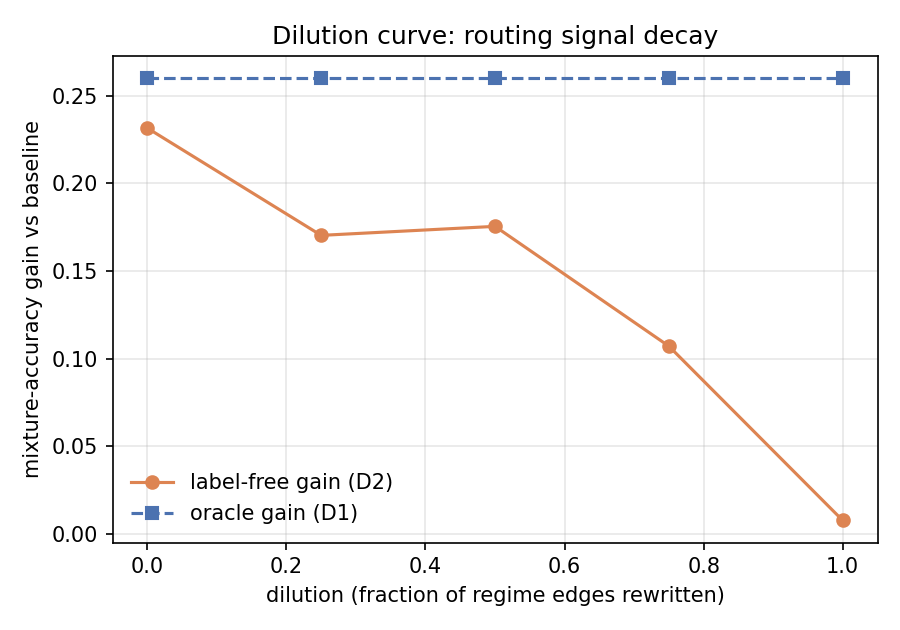
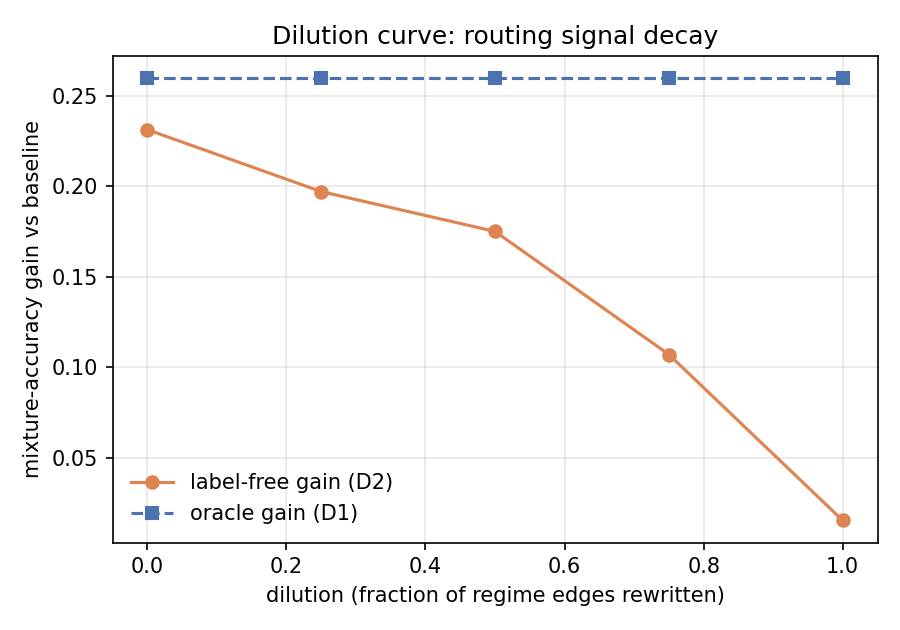
Regenerate dilution ladder on CPU and sync docs

diff --git a/docs/Insights.md b/docs/Insights.md
@@ -357,10 +357,10 @@ How the label-free gain behaves as we erase structure but keep labels:
 | Dilution λ | Oracle gain | Label-free gain |
 |-----------|-------------|-----------------|
 | 0.00 | 0.2599 | **0.2314** |
-| 0.25 | 0.2599 | 0.1703 |
-| 0.50 | 0.2599 | 0.1754 |
+| 0.25 | 0.2599 | 0.1972 |
+| 0.50 | 0.2599 | 0.1751 |
 | 0.75 | 0.2599 | 0.1071 |
-| 1.00 | 0.2599 | **0.0077** |
+| 1.00 | 0.2599 | **0.0153** |
 
 This is the **cleanest mechanistic result** in the repo:
 - Oracle gain is **completely flat** (0.260) — it reads labels, and dilution never
@@ -474,10 +474,9 @@ evidence below is mutually consistent and theory-aligned *for the control*:
 5. **The instrument is valid (D4 + δ-sweep).** Results are not an artifact of one magic
    threshold or a broken experimental setup.
 
-Two minor wiggles worth knowing (see §8): the ablation oracle δ-sweep plateau at 10k
+One minor wiggle worth knowing (see §8): the ablation oracle δ-sweep plateau at 10k
 nodes reads a bit differently from the earlier small-scale smoke run (peak at δ=0.3
-rather than a flat plateau), and the dilution 0.25 vs 0.50 points are nearly equal
-(0.170 vs 0.175) — both are within expected noise and do not disturb the trend.
+rather than a flat plateau) — within expected noise and does not disturb the trend.
 
 ---
 
@@ -494,8 +493,8 @@ rather than a flat plateau), and the dilution 0.25 vs 0.50 points are nearly equ
   express." The enormous effect sizes (`d_z > 100`) are the more informative number.
 - **Statistical resolution of dilution/ablation.** Those sweeps use fewer splits ×
   seeds (config default 4–6), so their effect sizes are noisier than the protocol's.
-- **2 of the dilution rungs are close** (0.25 vs 0.50) — the monotone trend is clear
-  across 0 → 1, but a tighter-rung run would smooth the middle points.
+- **Dilution spacing is uneven** (0.25 → 0.50 spans 0.197 → 0.175) — the monotone
+  trend is clear across 0 → 1, but a tighter-rung run would smooth the middle points.
 - **RouterGNN epoch-level variation across GPU/CPU** — the *crisp KMeans gate* is the
   operational router (deterministic); the GNN imitation is its transferable proxy.
 - **Top-k effective resistance is a lower bound** at high `n`; the code uses exact

diff --git a/README.md b/README.md
@@ -68,7 +68,8 @@ python -m spectral_distillation.experiments.ablation            # oracle-filter 
 python -m spectral_distillation.experiments.reproduce_figures   # render all Phase 3 figures from logs
 ```
 
-- `make test-theory` runs the theory-bound test file only. The Makefile targets run on `cuda` by default (runners auto-fallback to `cpu` when CUDA is absent).- Runners accept `--n`, `--n-patches`, `--splits`, `--seeds`, `--router-epochs`, `--device`, `--config`, `--out` (see each module's argparse help). Use small `--n` (600-2000) for CPU smoke runs; the defaults target the full 10k-node PC-1c-R control on a GPU.
+- `make test-theory` runs the theory-bound test file only. The Makefile targets (and every runner except `run_real_attention`) run on `cpu` by default; pass `--device cuda` explicitly for a faster GPU run (runners auto-fallback to `cpu` when CUDA is absent).
+- Runners accept `--n`, `--n-patches`, `--splits`, `--seeds`, `--router-epochs`, `--device`, `--config`, `--out` (see each module's argparse help). Use small `--n` (600-2000) for CPU smoke runs; the defaults target the full 10k-node PC-1c-R control on a GPU.
 - Outputs: `logs/protocol/protocol_results.json`, `logs/dilution/dilution_curve.{csv,json}`, `logs/ablation/ablation.{csv,json}`, `logs/compare_methods/{results,bands}.{csv,json}` + `bands_vs_*_n*.png`, `logs/frozen_interventions/{pc,erp_fraud}.json`, `logs/scalability_reeff/table3.{csv,json}`, plus Phase 3 figures under `logs/protocol/`, `logs/dilution/`, `logs/ablation/`. `reproduce_figures.py` also exports Tables 1-3 as CSV + LaTeX (`table1_*`, `table2_*`, `table3.tex`; `make tables`).
 - Config defaults live in `configs/default.yaml` (`router_protocol:`, `planted_control:`, `experiments:` sections).
 

diff --git a/docs/reproducibility.md b/docs/reproducibility.md
@@ -166,10 +166,10 @@ Full run (`n=10000`, 50 patches, 10 splits Ã— 3 seeds, `logs/protocol/protoco
 | dilution Î» | oracle gain | label-free gain |
 |-----------|-------------|-----------------|
 | 0.00 | 0.2599 | 0.2314 |
-| 0.25 | 0.2599 | 0.1703 |
-| 0.50 | 0.2599 | 0.1754 |
+| 0.25 | 0.2599 | 0.1972 |
+| 0.50 | 0.2599 | 0.1751 |
 | 0.75 | 0.2599 | 0.1071 |
-| 1.00 | 0.2599 | 0.0077 |
+| 1.00 | 0.2599 | 0.0153 |
 
 Label-free gain decays monotonically as regime nodes are rewritten toward homogeneous wiring;
 oracle gain (true regime id) stays flat. This is exactly what the mechanism predicts: dilution
@@ -323,7 +323,7 @@ Every claim in Â§3 maps to a committed artifact:
 | Frozen-gate ablations: ordering holds across logistic / mlp{w} / dendrite at n=2000 (within-regime null near-identity) | `logs/frozen_interventions/{pc,erp_fraud}.json`, `docs/robustness_scaling.md` Part 3 |
 | Top-k R_eff: rank-faithful (ρ→0.91) though absolute edge error high; induced distortion ≤1.2% of exact | `logs/scalability_reeff/table3.json`, `docs/robustness_scaling.md` Part 2 |
 | D1â€“D4 supported, frozen-gate ordering, stats | `logs/protocol/protocol_results.json` |
-| Dilution decay (0.231 â†’ 0.008) vs flat oracle (0.260), 10k GPU | `logs/dilution/dilution_curve.json` |
+| Dilution decay (0.231 â†’ 0.015) vs flat oracle (0.260), 10k CPU | `logs/dilution/dilution_curve.json` |
 | Feature ablation ordering + oracle Î´ plateau | `logs/ablation/ablation.json` |
 | 250-test pass | `python -m pytest` |
 

diff --git a/MENTOR_SUMMARY.md b/MENTOR_SUMMARY.md
@@ -62,7 +62,7 @@ survives at k≥32; the label-free router does not route at any k.**
 
 Dilution ladder = gradually scramble graph edges toward same-class wiring to test when the label-free router loses the signal.
 
-- Synthetic graphs: label-free gain decays as expected (0.23 → 0.008).
+- Synthetic graphs: label-free gain decays as expected (0.23 → 0.015).
 - Real graphs: gain *rose* (0.013 → 0.085). Investigated thoroughly.
 - **Resolution:** the scrambling procedure plants new artificial structure (degree/spectral patterns) that the structural router reads back — an artifact of the test, not evidence of surviving signal. A limitation of applying the synthetic dilution ladder to imbalanced real graphs; documented transparently in `docs/real_attention_results.md`.
 

diff --git a/docs/real_attention_results.md b/docs/real_attention_results.md
@@ -61,7 +61,7 @@ separates cleanly. Switching to tercile-based adaptive thresholds keeps all buck
 | 1.00 | 0.0000 | 0.0852 |
 
 **Anomaly resolved (and undercut by §6).** The label-free gain that *rises* toward dilution→1 looked
-like a violation of the synthetic pattern (0.231 → 0.008). Diagnostics show it is an artifact of the
+like a violation of the synthetic pattern (0.231 → 0.015). Diagnostics show it is an artifact of the
 ladder itself: the dilution rewrite forces same-class edges (label homophily → 1.0), which plants
 degree/spectral structure the structural router reads mechanically — independent of real attention.
 Concretely the router's `feature_homophily` field stays ≈ 0.996 flat across all dilutions (L2 drift
